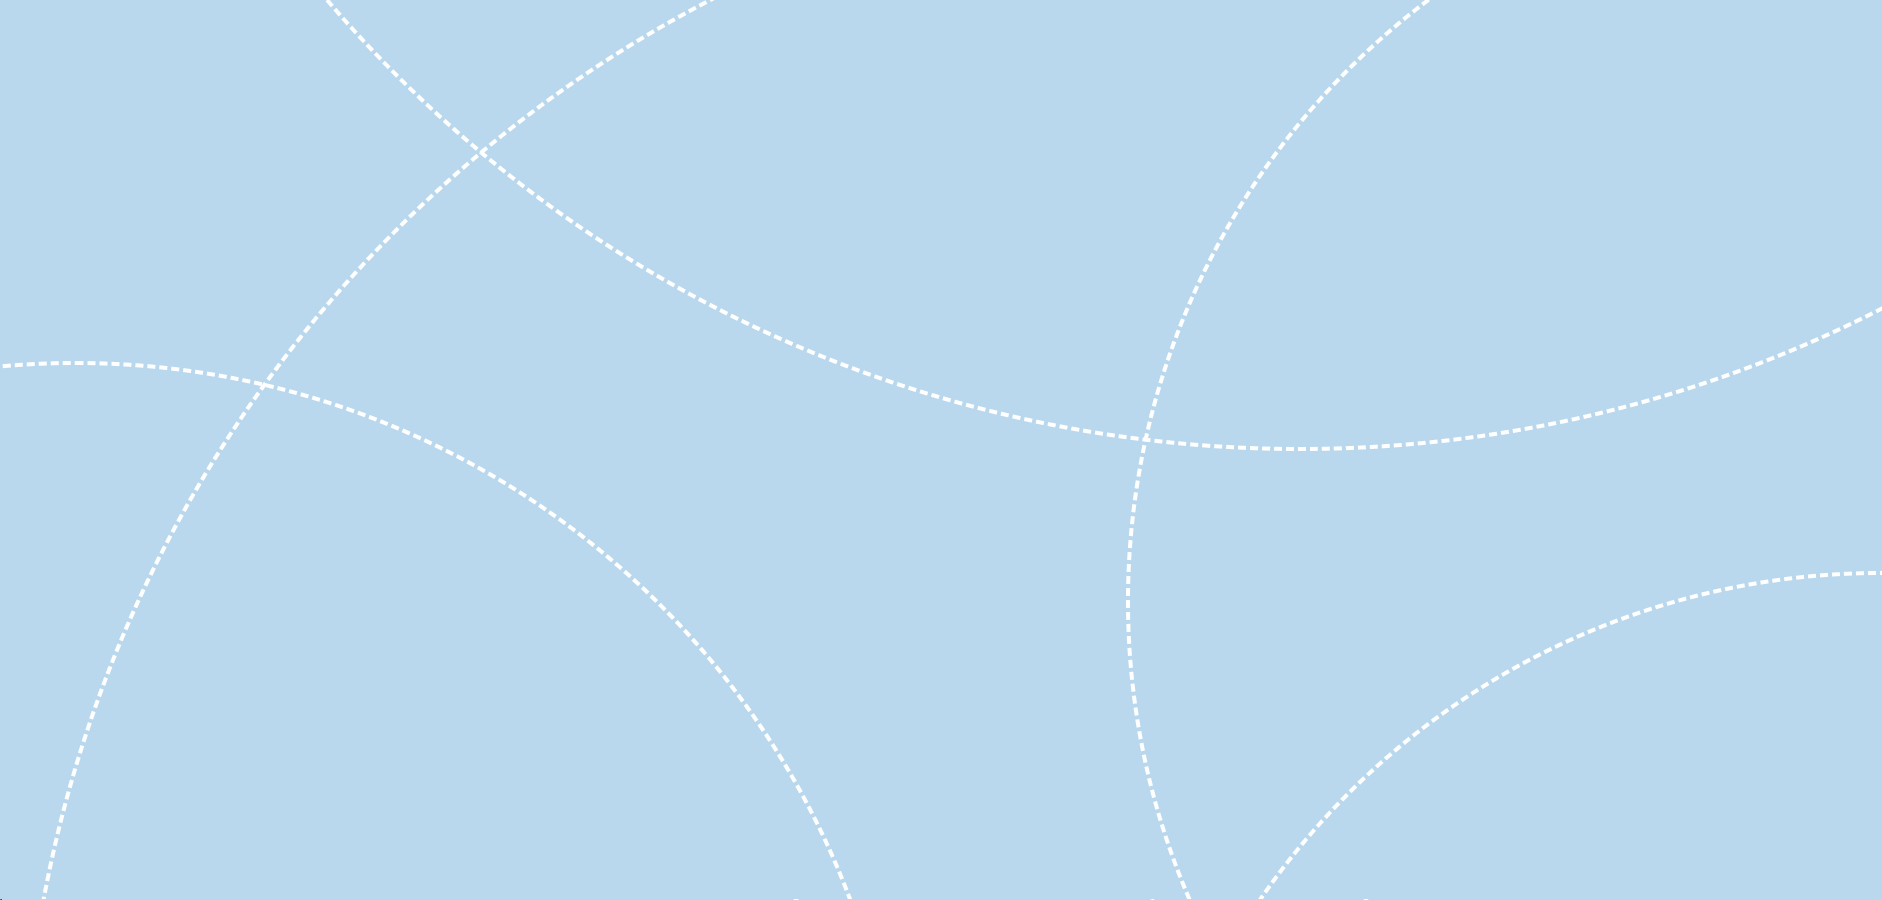
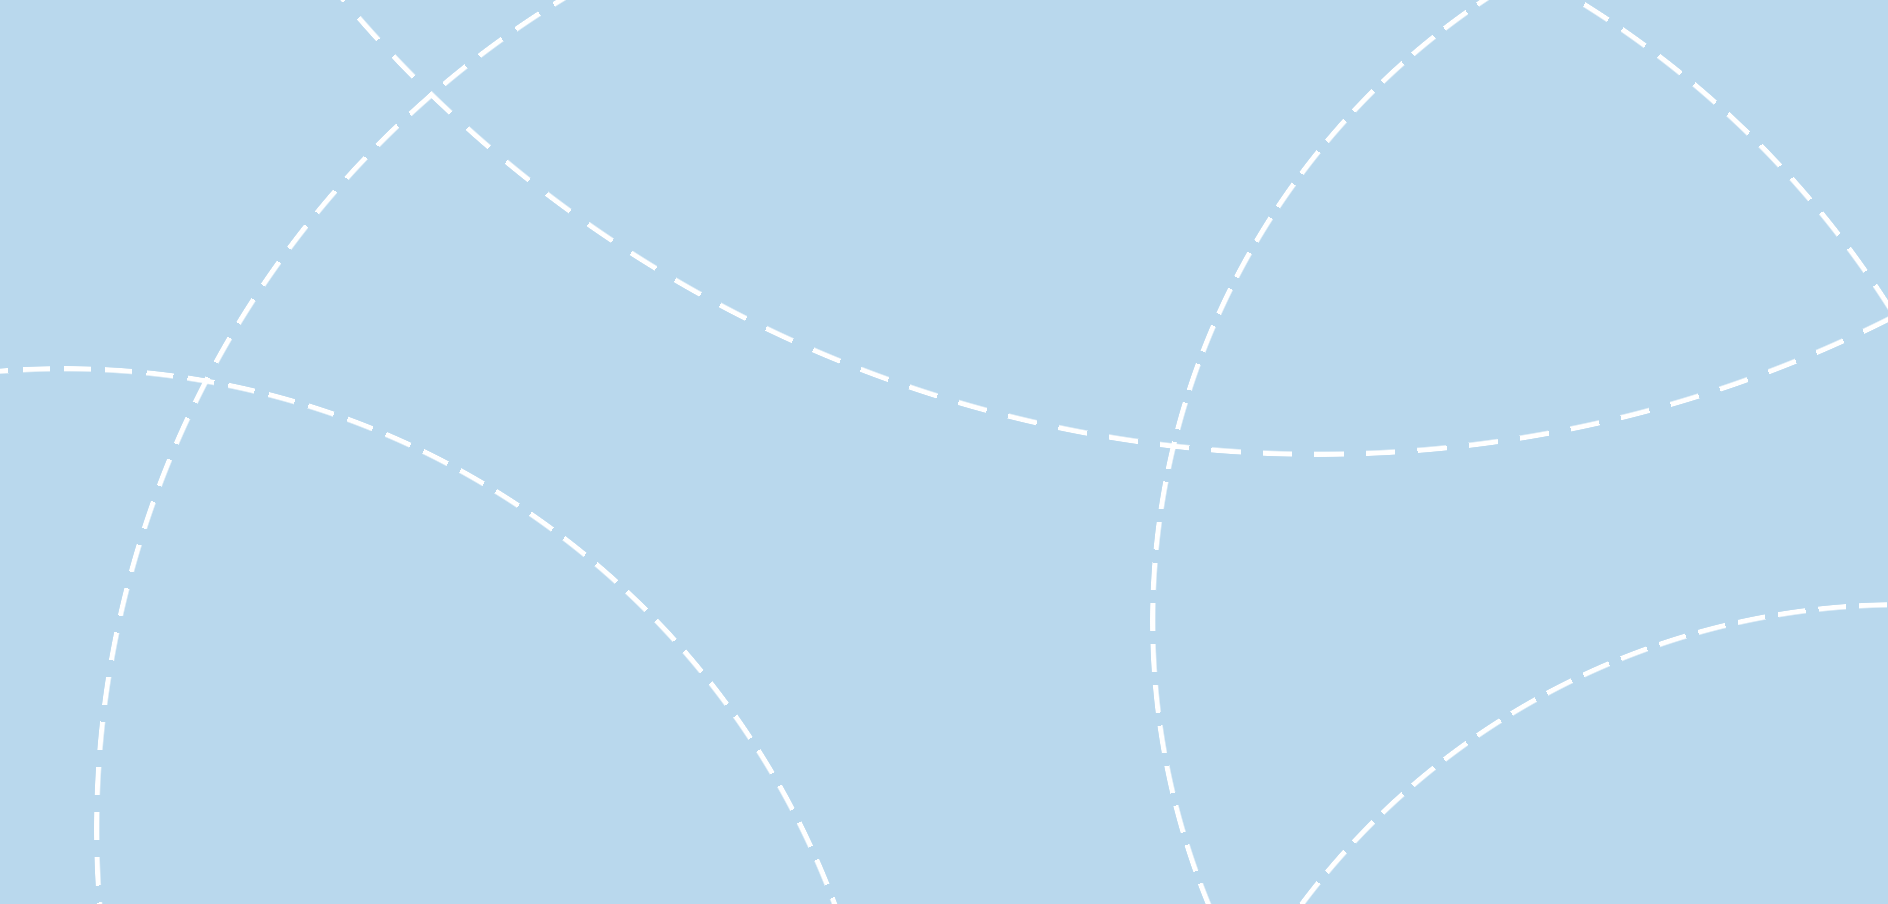
dashed lines spacing increase on home background

diff --git a/src/components/Background.css b/src/components/Background.css
@@ -4,55 +4,180 @@
   overflow: hidden;
 }
 .first {
-  border-radius: 100%;
-  border: 3px dashed white;
+  --d: 1deg; /* distance between dashes */
+  --n: 125; /* number of dashes */
+  --c: white; /* color of dashes */
+  --b: 4px; /* control the thickness of border*/
+
+  width: 1100px;
+  display: inline-block;
+  border-radius: 50%;
+  background: repeating-conic-gradient(
+    var(--c) 0 calc(360deg / var(--n) - var(--d)),
+    transparent 0 calc(360deg / var(--n))
+  );
+  -webkit-mask: radial-gradient(
+    farthest-side,
+    transparent calc(100% - var(--b)),
+    #fff calc(100% - var(--b) + 1px)
+  );
+  mask: radial-gradient(
+    farthest-side,
+    transparent calc(100% - var(--b)),
+    #fff calc(100% - var(--b) + 1px)
+  );
+
   position: absolute;
   top: 40%;
   left: -40%;
-  width: 1100px;
-  height: 1100px;
-  overflow: hidden;
+}
+.first:before {
+  content: "";
+  display: block;
+  padding-top: 100%;
 }
 
 .second {
-  border-radius: 100%;
-  border: 3px dashed white;
+  --d: 1deg; /* distance between dashes */
+  --n: 135; /* number of dashes */
+  --c: white; /* color of dashes */
+  --b: 4px; /* control the thickness of border*/
+
+  width: 1300px;
+  display: inline-block;
+  border-radius: 50%;
+  background: repeating-conic-gradient(
+    var(--c) 0 calc(360deg / var(--n) - var(--d)),
+    transparent 0 calc(360deg / var(--n))
+  );
+  -webkit-mask: radial-gradient(
+    farthest-side,
+    transparent calc(100% - var(--b)),
+    #fff calc(100% - var(--b) + 1px)
+  );
+  mask: radial-gradient(
+    farthest-side,
+    transparent calc(100% - var(--b)),
+    #fff calc(100% - var(--b) + 1px)
+  );
+
   position: absolute;
   top: -16%;
-  right: -37%;
-  width: 1700px;
-  height: 1700px;
+  right: -8%;
+
   overflow: hidden;
+}
+.second:before {
+  content: "";
+  display: block;
+  padding-top: 100%;
 }
 
 .third {
-  border-radius: 100%;
-  border: 3px dashed white;
+  --d: 1deg; /* distance between dashes */
+  --n: 155; /* number of dashes */
+  --c: white; /* color of dashes */
+  --b: 4px; /* control the thickness of border*/
+
+  width: 1700px;
+  display: inline-block;
+  border-radius: 50%;
+  background: repeating-conic-gradient(
+    var(--c) 0 calc(360deg / var(--n) - var(--d)),
+    transparent 0 calc(360deg / var(--n))
+  );
+  -webkit-mask: radial-gradient(
+    farthest-side,
+    transparent calc(100% - var(--b)),
+    #fff calc(100% - var(--b) + 1px)
+  );
+  mask: radial-gradient(
+    farthest-side,
+    transparent calc(100% - var(--b)),
+    #fff calc(100% - var(--b) + 1px)
+  );
+
   position: absolute;
   bottom: 50%;
   right: -37%;
-  width: 1700px;
-  height: 1700px;
-  overflow: hidden;
-}
-.forth {
-  border-radius: 100%;
-  border: 3px dashed white;
-  position: absolute;
-  bottom: -50%;
-  right: -40%;
-  width: 1000px;
-  height: 1000px;
+
   overflow: hidden;
 }
 
+.third:before {
+  content: "";
+  display: block;
+  padding-top: 100%;
+}
+
+.forth {
+  --d: 1deg; /* distance between dashes */
+  --n: 115; /* number of dashes */
+  --c: white; /* color of dashes */
+  --b: 4px; /* control the thickness of border*/
+
+  width: 1000px;
+  display: inline-block;
+  border-radius: 50%;
+  background: repeating-conic-gradient(
+    var(--c) 0 calc(360deg / var(--n) - var(--d)),
+    transparent 0 calc(360deg / var(--n))
+  );
+  -webkit-mask: radial-gradient(
+    farthest-side,
+    transparent calc(100% - var(--b)),
+    #fff calc(100% - var(--b) + 1px)
+  );
+  mask: radial-gradient(
+    farthest-side,
+    transparent calc(100% - var(--b)),
+    #fff calc(100% - var(--b) + 1px)
+  );
+
+  position: absolute;
+  bottom: -50%;
+  right: -40%;
+  overflow: hidden;
+}
+
+.forth:before {
+  content: "";
+  display: block;
+  padding-top: 100%;
+}
+
 .fifth {
-  border-radius: 100%;
-  border: 3px dashed white;
+  --d: 1deg; /* distance between dashes */
+  --n: 115; /* number of dashes */
+  --c: white; /* color of dashes */
+  --b: 4px; /* control the thickness of border*/
+
+  width: 1000px;
+  display: inline-block;
+  border-radius: 50%;
+  background: repeating-conic-gradient(
+    var(--c) 0 calc(360deg / var(--n) - var(--d)),
+    transparent 0 calc(360deg / var(--n))
+  );
+  -webkit-mask: radial-gradient(
+    farthest-side,
+    transparent calc(100% - var(--b)),
+    #fff calc(100% - var(--b) + 1px)
+  );
+  mask: radial-gradient(
+    farthest-side,
+    transparent calc(100% - var(--b)),
+    #fff calc(100% - var(--b) + 1px)
+  );
+
   position: absolute;
   bottom: -130%;
   right: -40%;
-  width: 1000px;
-  height: 1000px;
   overflow: hidden;
+}
+
+.fifth:before {
+  content: "";
+  display: block;
+  padding-top: 100%;
 }

diff --git a/src/pages/GetInTouch.module.css b/src/pages/GetInTouch.module.css
@@ -33,6 +33,13 @@
   display: flex;
   flex-direction: column;
   align-items: center;
+  justify-content: space-between;
+}
+.gridContainer {
+  display: flex;
+  height: 75%;
+  flex-direction: column;
+  justify-content: space-between;
 }
 .contactForm {
   display: flex;
